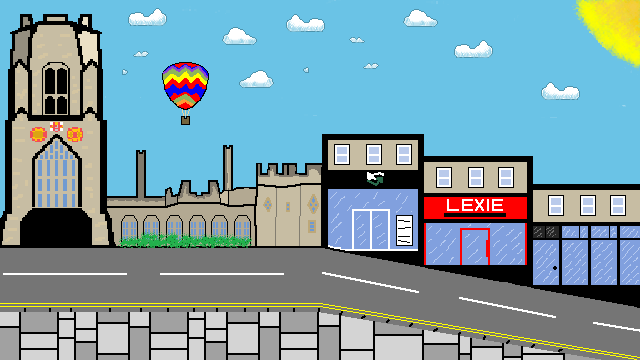
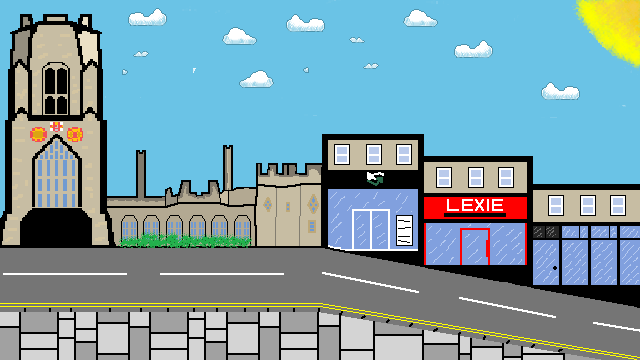
game end sequence

Changed region(s): [[0.25, 0.1528, 0.3438, 0.3667]]

diff --git a/game.py b/game.py
@@ -449,6 +449,9 @@ class Player(pygame.sprite.Sprite):
         self.frozen = True
         Callback(self.unfreeze, time)
 
+    def freeze(self):
+        self.frozen = True
+
     def unfreeze(self):
         self.frozen = False
         
@@ -724,12 +727,17 @@ class GameTimer(object):
     def timer_end(self):
         if (not self.overtime):
             self.hide_timer()
-            OVERTIME.do_overtime_effect()
+            SWIPESPRITE.do_swipesprite_effect()
             for player in self.game_ref.players:
                 player.period_freeze(80) 
             Callback(lambda: self.start_timer(OVERTIME_LENGTH), 80)
+            self.overtime = True
         else:
-            pass
+            SWIPESPRITE.change_sprite(GAME_OVER_SPRITE)
+            SWIPESPRITE.do_swipesprite_effect()
+            for player in self.game_ref.players:
+                player.period_freeze(80)
+            Callback(game_end_sequence, 80)
 
     def update(self):
         if (self.show):
@@ -1092,7 +1100,7 @@ class Screenswipe(pygame.sprite.Sprite):
 
     def do_effect(self):
         global current_game
-        Callback(self.reset, 120)
+        Callback(self.reset, 30)
         self.repeat = Repeat(self.update, 1)
 
     def reset(self):
@@ -1208,14 +1216,15 @@ OVERTIME_PAUSE_FRAMES = 40
 OVERTIME_ACCELERATION_FRAMES = 20
 
 OVERTIME_SPRITE = "assets/overtime.png"
+GAME_OVER_SPRITE = "assets/game_over.png"
 
-class Overtime(pygame.sprite.Sprite):
-    def __init__(self, surface):
+class SwipeSprite(pygame.sprite.Sprite):
+    def __init__(self, surface, sprite_path):
         super().__init__()
         self.current_count = 0
         self.image2 = pygame.image.load(TRANSLUCENT_OVERLAY).convert_alpha()
         self.image2 = pygame.transform.scale(self.image2, (SCREEN_WIDTH, SCREEN_HEIGHT))
-        self.image = pygame.image.load(OVERTIME_SPRITE).convert_alpha()
+        self.image = pygame.image.load(sprite_path).convert_alpha()
         self.rect = self.image.get_rect()
         self.rect2 = self.image2.get_rect()
         self.rect.center = (OVERTIME_START_X, OVERTIME_CENTRE_Y)
@@ -1228,6 +1237,9 @@ class Overtime(pygame.sprite.Sprite):
         self.current_speed = 0
 
         self.overlay_active = False
+
+    def change_sprite(self, new_sprite_path):
+        self.image = pygame.image.load(new_sprite_path).convert_alpha()
 
     def update(self):
         if self.state == "DECELERATE":
@@ -1259,7 +1271,7 @@ class Overtime(pygame.sprite.Sprite):
         if (self.overlay_active): self.surface_ref.blit(self.image2, self.rect2)
         self.surface_ref.blit(self.image, self.rect)
 
-    def do_overtime_effect(self):
+    def do_swipesprite_effect(self):
         self.overlay_active = True
         self.do_effect()
         Callback(self.disable_overlay, 80)
@@ -1291,7 +1303,7 @@ class Overtime(pygame.sprite.Sprite):
 
 SCREENSWIPE = Screenswipe(StaticSprite("SCREENSWIPE", "assets/screen_swipe.png"), screen)
 COUNTDOWN = Countdown(screen)
-OVERTIME = Overtime(screen)
+SWIPESPRITE = SwipeSprite(screen, OVERTIME_SPRITE)
 
 class BackgroundMusic(object):
     def __init__(self, music_file):
@@ -1419,6 +1431,28 @@ def change_to_settings_menu():
 def show_settings_widgets():
     for w in SETTINGS_WIDGETS: w.show()
 
+def load_map_select_menu():
+    SCREENSWIPE.do_effect()
+    Callback(change_to_map_menu, 15)
+
+def change_to_map_menu():
+    global current_menu 
+    current_menu = MAP_SELECT_MENU
+    global current_game 
+    current_game = None
+    # change_bgm(MAIN_MENU_AUDIO)
+
+def load_game_over_menu():
+    SCREENSWIPE.do_effect()
+    Callback(change_to_gameover_menu, 15)
+
+def change_to_gameover_menu():
+    global current_menu 
+    current_menu = GAME_OVER_MENU
+    global current_game 
+    current_game = None
+    # change_bgm(MAIN_MENU_AUDIO)
+
 def load_tutorial():
     SCREENSWIPE.do_effect()
     Callback(change_game_to_tutorial, 15)
@@ -1435,17 +1469,26 @@ def change_game_to_tutorial():
     current_game = TUTORIAL_GAME
     change_bgm(TUTORIAL_AUDIO)
 
+def random_move_hotairballoon():
+    mult = 1
+    if (HOT_AIR_BALLOON.rect.x > SCREEN_WIDTH - 100): mult = -1
+    if (HOT_AIR_BALLOON.rect.x < 100): mult = 1
+    HOT_AIR_BALLOON.rect.move_ip(random.randint(1, 2) * mult, random.randint(-1, 1))
+
 def load_wills():
     SCREENSWIPE.do_effect()
     Callback(change_game_to_wills, 15)
     Callback(countdown_sequence, 60)
     Callback(disable_countdown_overlay, 243) 
 
+    Repeat(random_move_hotairballoon, 30)
+
     global ground_y
     ground_y = WILLS_GROUND_Y
 
     for player in WILLS_GAME.players:
         player.reset_position()
+        player.health = PLAYER_HEALTH
     
     WILLS_PLAYER1.jump()
     WILLS_PLAYER2.jump()
@@ -1461,9 +1504,7 @@ def load_mvb():
 
     for player in MVB_GAME.players:
         player.reset_position()
-
-    MVB_PLAYER1.jump()
-    MVB_PLAYER2.jump()
+        player.health = PLAYER_HEALTH
 
 def countdown_sequence():
     COUNTDOWN.current_count = 0
@@ -1510,6 +1551,28 @@ def start_wills():
     change_bgm(WILLS_GAME_AUDIO)
     current_game.game_timer.start_timer(GAME_LENGTH)
 
+def game_end_sequence():
+    if (PLAYER1_WON in GAME_OVER_MENU.interactive_elements): GAME_OVER_MENU.interactive_elements.remove(PLAYER1_WON)
+    if (PLAYER2_WON in GAME_OVER_MENU.interactive_elements): GAME_OVER_MENU.interactive_elements.remove(PLAYER2_WON)
+
+    if (current_game == MVB_GAME):
+        if (MVB_PLAYER1.health > MVB_PLAYER2.health):
+            GAME_OVER_MENU.interactive_elements.append(PLAYER1_WON)
+        else:
+            GAME_OVER_MENU.interactive_elements.append(PLAYER2_WON)
+    elif (current_game == WILLS_GAME):
+        if (WILLS_PLAYER1.health > WILLS_PLAYER2.health):
+            GAME_OVER_MENU.interactive_elements.append(PLAYER1_WON)
+        else:
+            GAME_OVER_MENU.interactive_elements.append(PLAYER2_WON)
+    # elif (current_game == CLIFTON_GAME):
+    #     if (CLIFTON_PLAYER1.health > CLIFTON_PLAYER2.health):
+    #         GAME_OVER_MENU.interactive_elements.append(PLAYER1_WON)
+    #     else:
+    #         GAME_OVER_MENU.interactive_elements.append(PLAYER2_WON)
+
+    load_game_over_menu()
+
 #endregion
 
 #region MAIN MENU
@@ -1521,7 +1584,7 @@ MAIN_MENU_BACKGROUND.change_dimensions((SCREEN_WIDTH, SCREEN_HEIGHT))
 
 MAIN_MENU_TUTORIAL_BUTTON = Button(screen, load_tutorial, StaticSprite("TUTORIAL_BUTTON", "assets/tutorial_button.png"), (SCREEN_WIDTH / 2, 225), 10)
 MAIN_MENU_SINGLEPLAYER_BUTTON = Button(screen, load_settings_menu, StaticSprite("SINGLEPLAYER_BUTTON", "assets/singleplayer_button.png"), (SCREEN_WIDTH / 2, 300), 10)
-MAIN_MENU_MULTIPLAYER_BUTTON = Button(screen, load_wills, StaticSprite("MULTIPLAYER_BUTTON", "assets/multiplayer_button.png"), (SCREEN_WIDTH / 2, 375), 10)
+MAIN_MENU_MULTIPLAYER_BUTTON = Button(screen, load_map_select_menu, StaticSprite("MULTIPLAYER_BUTTON", "assets/multiplayer_button.png"), (SCREEN_WIDTH / 2, 375), 10)
 MAIN_MENU_CHARACTER_BUTTON = Button(screen, load_char_menu, StaticSprite("CHARACTER_BUTTON", "assets/character_menu_button.png"), (SCREEN_WIDTH / 2, 450), 10)
 
 MAIN_MENU.add_button(MAIN_MENU_TUTORIAL_BUTTON)
@@ -1533,7 +1596,7 @@ MAIN_MENU.add_button(MAIN_MENU_CHARACTER_BUTTON)
 #region CHARACTER MENU
 CHARACTER_MENU = Menu()
 
-CHAR_MENU_BACKGROUND = SpritedMenuObject(StaticSprite("MAIN_MENU_BACKGROUND", "assets/main_menu_background.png"), (320, 180), screen, -100, BACKGROUND_OBJECT, CHARACTER_MENU)
+CHAR_MENU_BACKGROUND = SpritedMenuObject(StaticSprite("CHARACTER_MENU_BACKGROUND", "assets/main_menu_background.png"), (320, 180), screen, -100, BACKGROUND_OBJECT, CHARACTER_MENU)
 CHAR_MENU_BACKGROUND.change_dimensions((SCREEN_WIDTH, SCREEN_HEIGHT))
 
 CHAR_MENU_TITLE = MenuText("CHARACTER MENU", (SCREEN_WIDTH / 2, 50), 10, screen, TITLE_FONT, BLACK)
@@ -1595,6 +1658,45 @@ SETTINGS_MENU.interactive_elements.append(TEXT_SAMPLE_2)
 
 BACK_BUTTON = Button(screen, change_to_main_menu, StaticSprite("BACK_BUTTON", "assets/button_placeholder.png"), (100, 100), 10)
 SETTINGS_MENU.add_button(BACK_BUTTON)
+
+#endregion
+
+#region MAP MENU
+MAP_SELECT_MENU = Menu()
+
+MAP_SELECT_BUTTONS = [
+    Button(screen, load_mvb, StaticSprite("MVB_BUTTON", "assets/mvb_map_button.png"), (190, 338), 10),
+    Button(screen, load_wills, StaticSprite("WILLS_BUTTON", "assets/wills_map_button.png"), (515, 338), 10),
+    Button(screen, load_wills, StaticSprite("CLIFTON_BUTTON", "assets/map_button_placeholder.png"), (840, 338), 10)
+]
+
+MAP_MENU_BACKGROUND = SpritedMenuObject(StaticSprite("MAP_MENU_BACKGROUND", "assets/main_menu_background.png"), (320, 180), screen, -100, BACKGROUND_OBJECT, MAP_SELECT_MENU)
+MAP_MENU_BACKGROUND.change_dimensions((SCREEN_WIDTH, SCREEN_HEIGHT))
+
+MAP_MENU_TITLE = MenuText("MAPS", (SCREEN_WIDTH / 2, 50), 10, screen, TITLE_FONT, BLACK)
+MAP_SELECT_MENU.interactive_elements.append(MAP_MENU_TITLE)
+
+for button in MAP_SELECT_BUTTONS:
+    MAP_SELECT_MENU.add_button(button)
+
+#endregion
+
+#region GAME OVER MENU
+GAME_OVER_MENU = Menu()
+
+GAME_OVER_BACKGROUND = SpritedMenuObject(StaticSprite("GAME_OVER_MENU_BACKGROUND", "assets/game_over_background.png"), (320, 180), screen, -100, BACKGROUND_OBJECT, GAME_OVER_MENU)
+GAME_OVER_BACKGROUND.change_dimensions((SCREEN_WIDTH, SCREEN_HEIGHT))
+
+GAME_OVER_HEADER = MenuText("GAME OVER", (SCREEN_WIDTH / 2, 100), 10, screen, TITLE_FONT, RED)
+GAME_OVER_MENU.interactive_elements.append(GAME_OVER_HEADER)
+
+PLAYER1_WON = MenuText("PLAYER 1 WON!", (SCREEN_WIDTH / 2, 200), 10, screen, TITLE_FONT, BLACK)
+#GAME_OVER_MENU.interactive_elements.append(PLAYER1_WON)
+
+PLAYER2_WON = MenuText("PLAYER 2 WON!", (SCREEN_WIDTH / 2, 200), 10, screen, TITLE_FONT, BLACK)
+#GAME_OVER_MENU.interactive_elements.append(PLAYER2_WON)
+
+GAME_OVER_MENU.add_button(BACK_BUTTON)
 
 #endregion
 
@@ -1691,6 +1793,9 @@ WILLS_PLAYER2.attach_opponent(WILLS_PLAYER1, HITBOX_WILLS_PLAYER1)
 WILLS_BACKGROUND = SpritedGameObject(StaticSprite("WILLS_BACKGROUND", "assets/wills_background.png"), (320, 180), screen, -100, BACKGROUND_OBJECT)
 WILLS_BACKGROUND.change_dimensions((SCREEN_WIDTH, SCREEN_HEIGHT))
 
+HOT_AIR_BALLOON = SpritedGameObject(StaticSprite("HOT_AIR_BALLOON", "assets/hot_air_balloon.png"), (300, 100), screen, 15, FOREGROUND_OBJECT)
+HOT_AIR_BALLOON.scale(2)
+
 WILLS_ROAD_BUILDING1 = Platform((170, 16), (595, 225), screen)
 WILLS_ROAD_BUILDING2 = Platform((170, 16), (765, 255), screen)
 WILLS_ROAD_BUILDING3 = Platform((170, 16), (935, 305), screen)
@@ -1703,7 +1808,7 @@ WILLS_ROAD_PLAT5 = Platform((80, 16), (770, 505), screen)
 WILLS_ROAD_PLAT6 = Platform((200, 16), (900, 520), screen)
 
 WILLS_IGO = [WILLS_ROAD_BUILDING1, WILLS_ROAD_BUILDING2, WILLS_ROAD_BUILDING3, WILLS_MEM_PLAT1, WILLS_ROAD_PLAT1, WILLS_ROAD_PLAT2, WILLS_ROAD_PLAT3, WILLS_ROAD_PLAT4, WILLS_ROAD_PLAT5, WILLS_ROAD_PLAT6]
-WILLS_SGO = [WILLS_BACKGROUND]
+WILLS_SGO = [WILLS_BACKGROUND, HOT_AIR_BALLOON]
 WILLS_GROUND_Y = 450
 ground_y = WILLS_GROUND_Y
 WILLS_MAP = Map("WILLS_MAP", WILLS_IGO, WILLS_SGO, WILLS_GROUND_Y)
@@ -1791,7 +1896,7 @@ while True:
 
     SCREENSWIPE.draw()
     COUNTDOWN.draw()
-    OVERTIME.draw()
+    SWIPESPRITE.draw()
     pygame_widgets.update(events)
 
     pygame.display.update()
